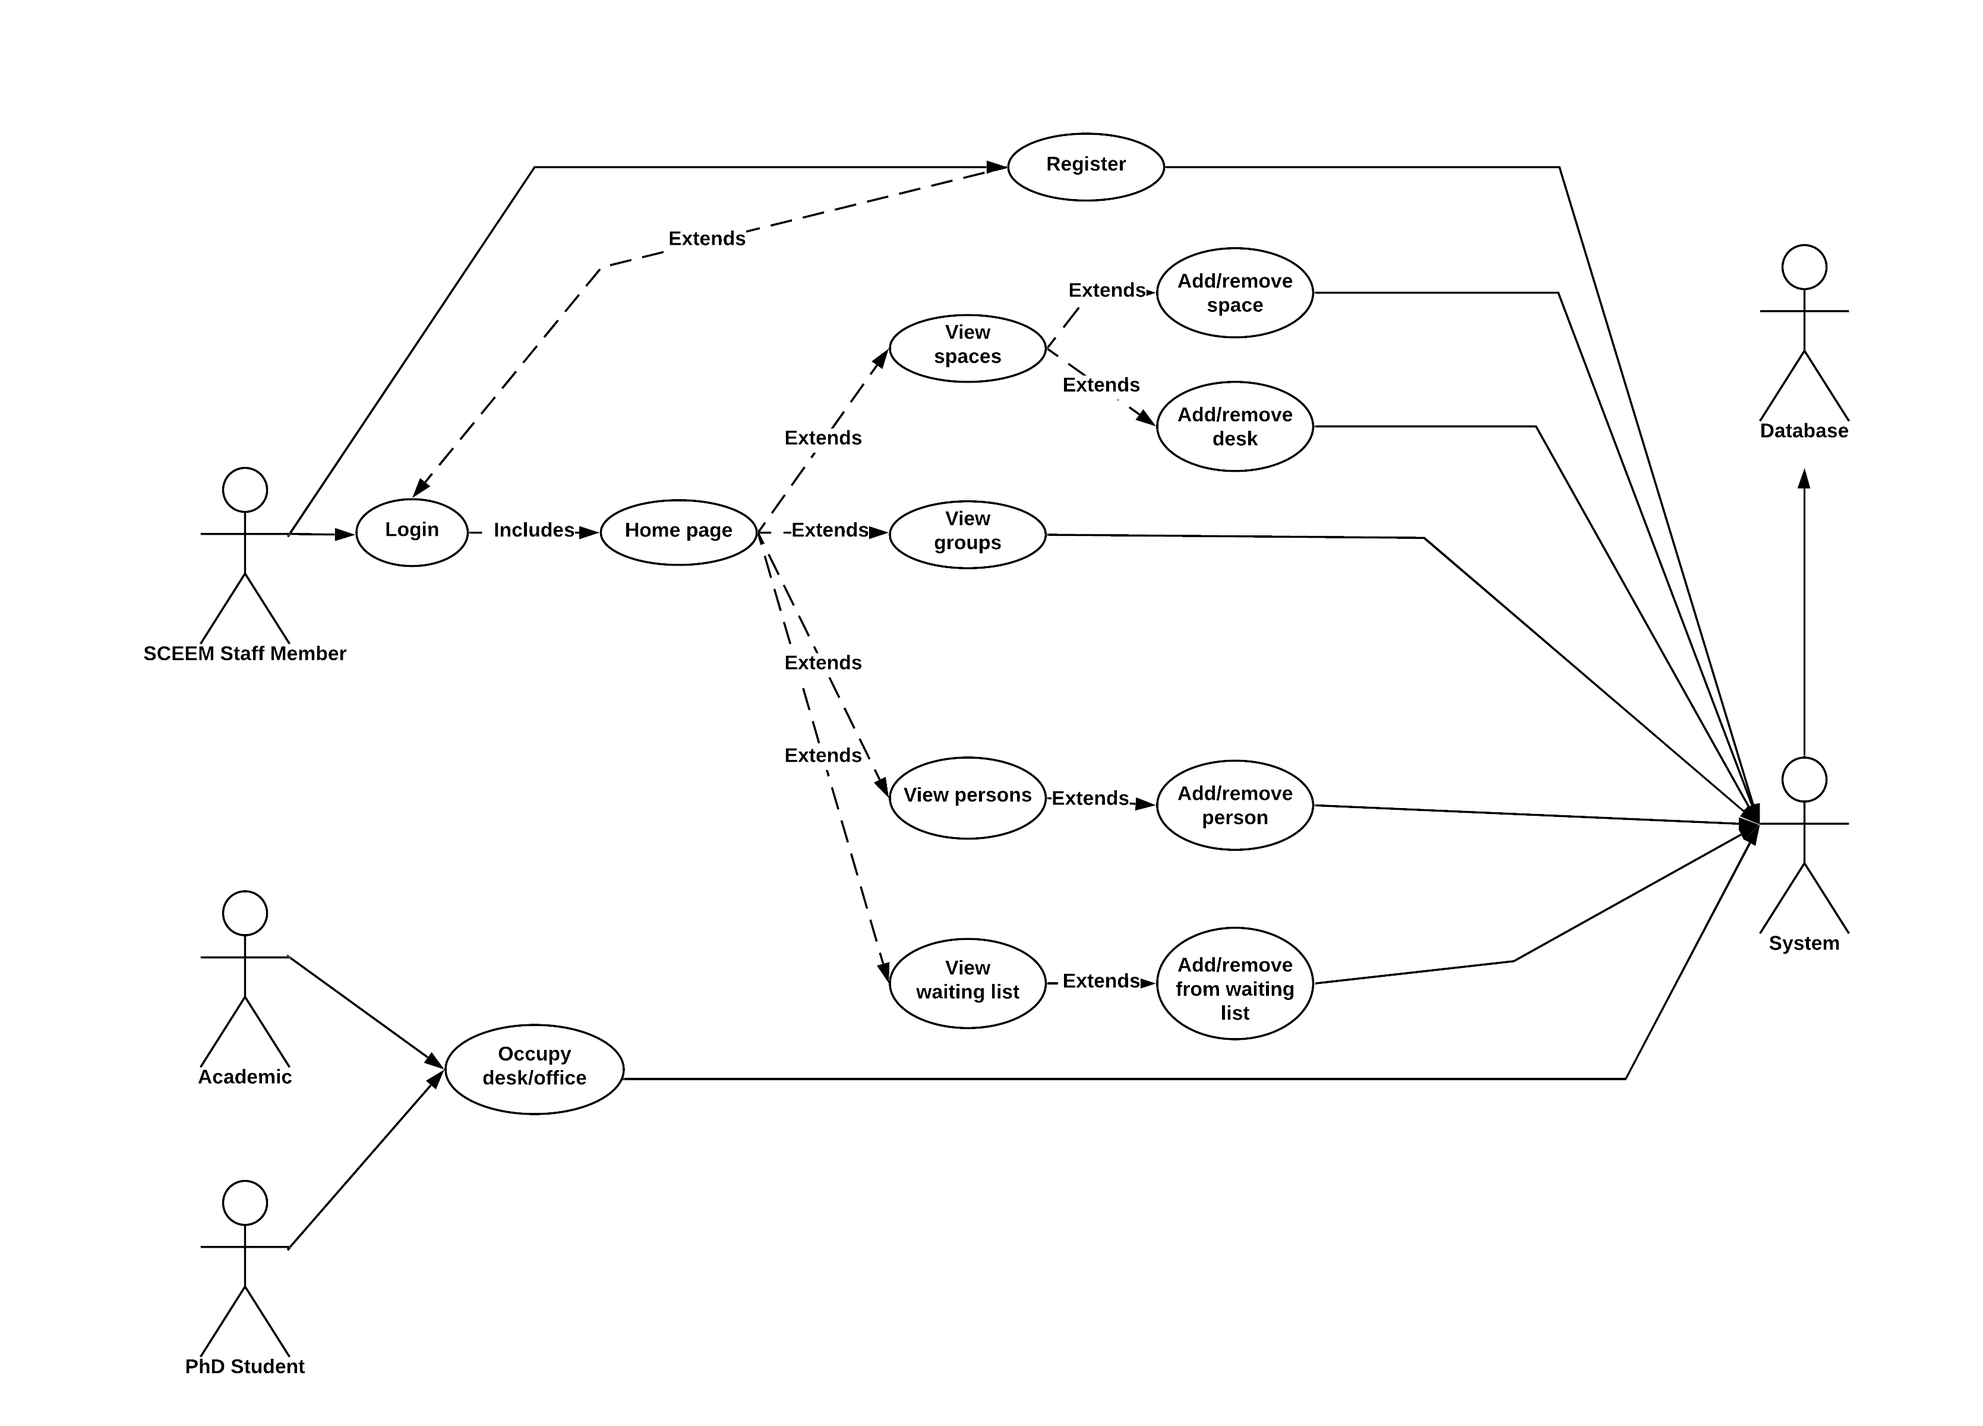
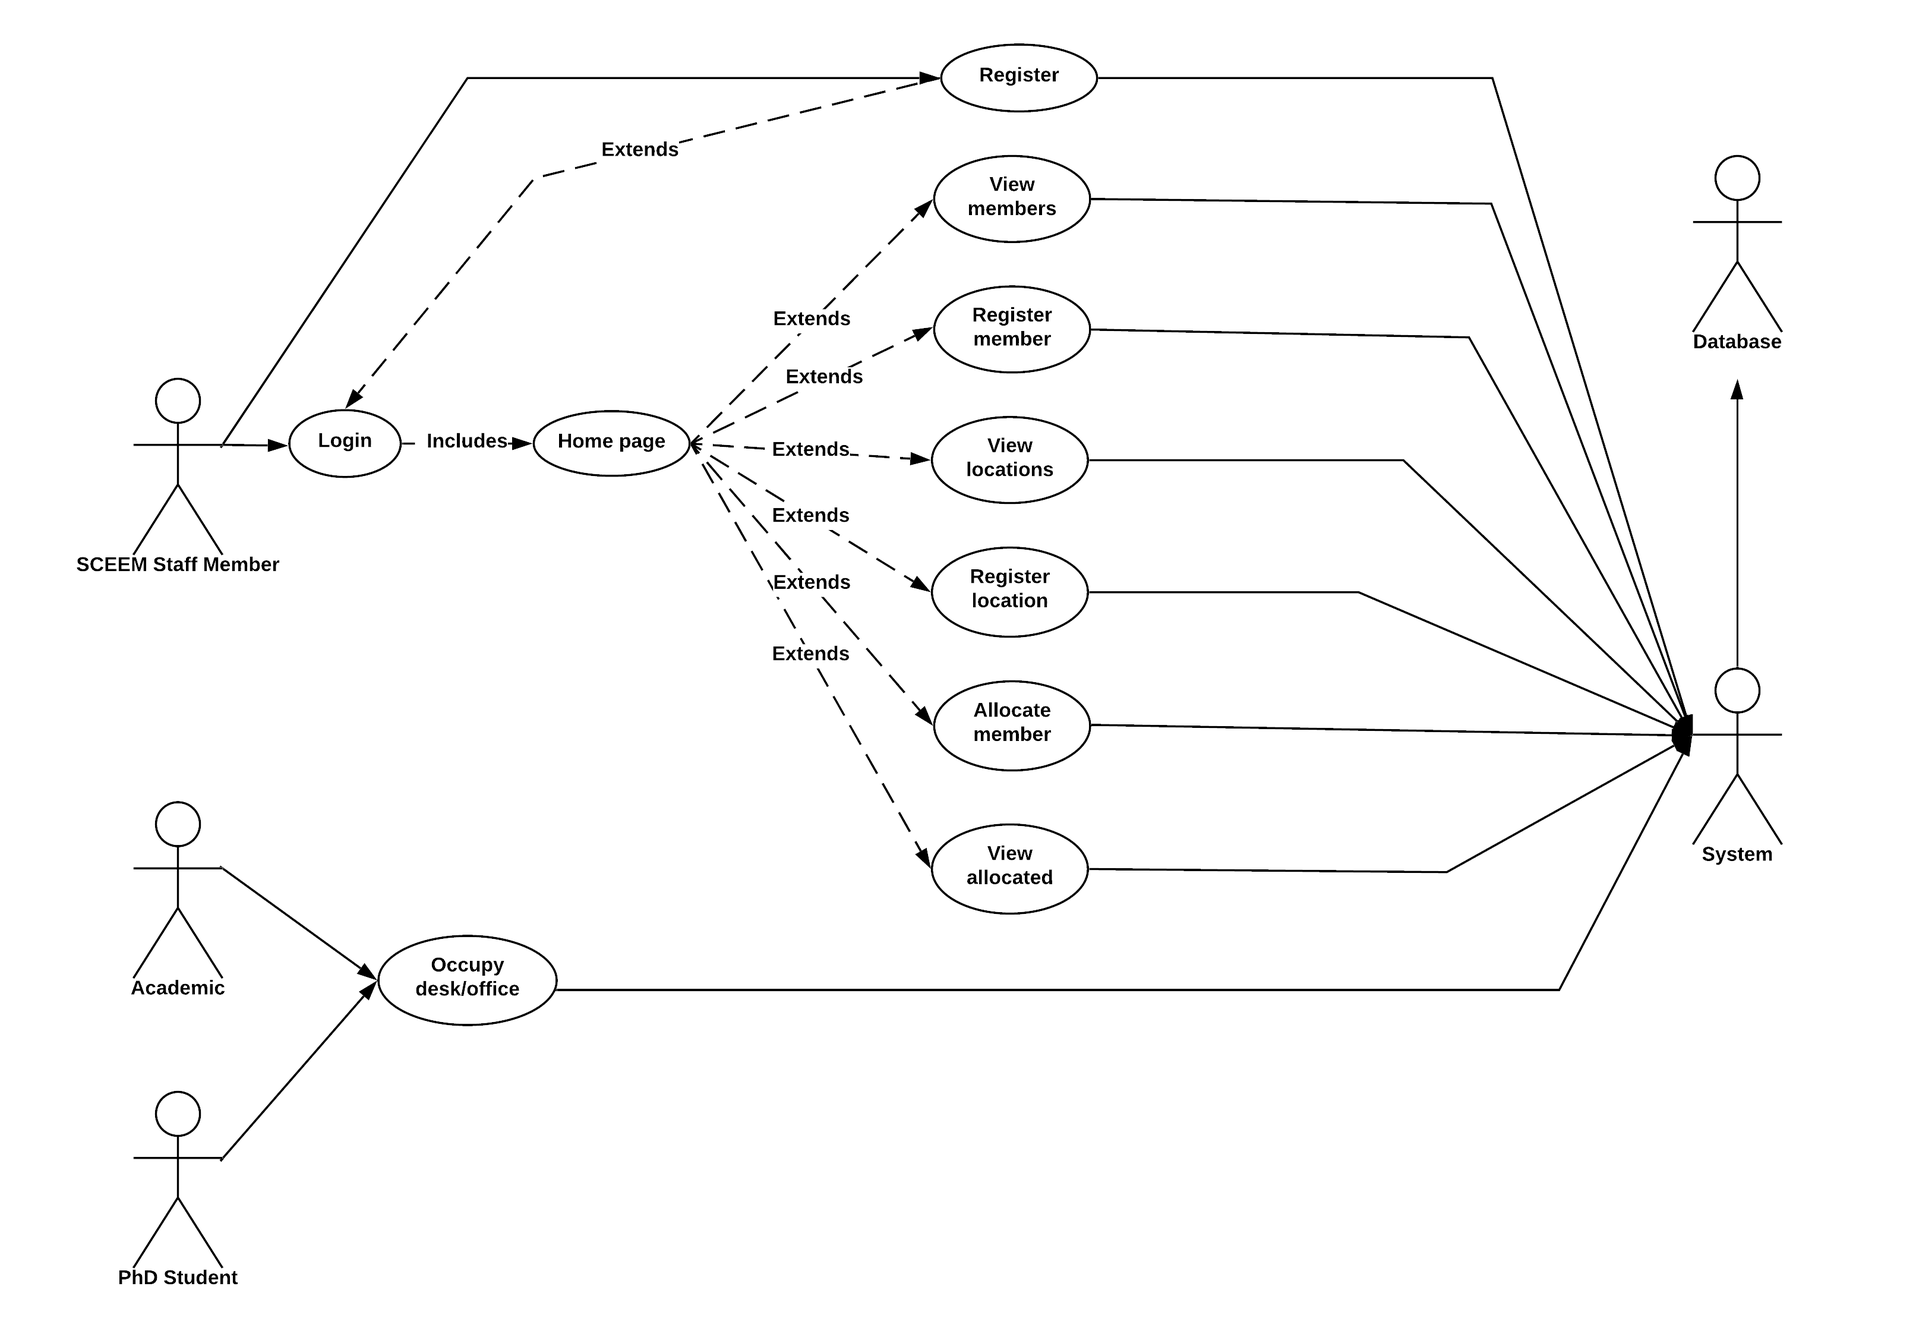
finished requirements

diff --git a/SCEEM Space - Requirements/main.tex b/SCEEM Space - Requirements/main.tex
@@ -39,6 +39,38 @@ pdfauthor = {Jason Park, Sungijn Kang, William Nafack, Calum West}
 \end{titlepage}
 
 \section{Requirements}
+\subsection{Client requirements}
+Through meetings with our client, we were able to compile a list of their specific requirements for the system we were building. The main requirement for the system was that they wanted a dynamic website application instead of a static Excel spreadsheet. These are some of the other requirements outlined by the client.
+
+\begin{itemize}
+    \item There needs to be three different kinds of members: Professor, Lecturer, PhD Student
+    \item It should be possible to sort for each different type of member.
+    \item It should be possible to designate a room type for each room in every location.
+    \item It should be possible to sort by room type.
+    \item Staff members need to be able to find out how many people can be allocated to a specific location.
+    \item There needs to be a login system.
+\end{itemize}
+
+From this list of requirements, we created a simple table comparing what our system would be able to do compared to what the previous spreadsheet was unable to accommodate.
+
+\begin{table}[ht]
+\centering
+\begin{tabular}{|p{0.5\textwidth}|p{0.5\textwidth}|}
+\hline
+Developed Website Application & Excel Spreadsheet  \\
+\hline
+Multiple staff can use the website at the same time & Multiple access not possible\\
+Automatic calculation of remaining spaces in a location & Remaining spaces in a location have to be counted by hand\\
+Automatic detection of duplicated member ID's or emails & Manual detection of duplicated member ID's or emails\\
+Easy reallocation of members' locations & Difficult reallocation of members' locations\\
+Automatically sorting members by priority & Manual checking of members' priorities\\
+Automatic sorting of allocations' expiry dates & Manually removing allocations once expiry dates have been reached\\
+\hline
+\end{tabular}
+\end{table}
+
+We were then able to identify both user and non-user stakeholders of our system and specific requirements relating to each stakeholder. This then allowed us to produce different flow steps for the system, as well as alternative and exceptional flow steps.
+
 \subsection{Identified user stakeholders for SCEEM Space:}
 \begin{itemize}
     \item \textit{Staff members} of ‘The School of Computer Science, Electrical and Electronic Engineering and Engineering Maths’. These staff members are admins that have access to the SCEEM Space application and can make changes, update information, add/remove people.
@@ -47,147 +79,198 @@ pdfauthor = {Jason Park, Sungijn Kang, William Nafack, Calum West}
 \subsection{User stakeholder stories:}
 These are some different 'user stories'. They are things that the user (staff members) want to be able to do when they are using the product:
 \begin{itemize}
-        \item Quick and easy way to add/remove spaces as the school moves/expands  into different buildings
-        \item Quick and easy way to add/remove desks as more spaces become available to the school in different buildings
-        \item Quick and easy way to add/remove persons as people become members of the university, or leave the university
-        \item Manage (add/remove) waiting list effectively as desk space is limited. Check if there is any desk space that is about to become available for reallocation.
-        \item Manage sensitive information for academics and PhD students (usernames)
-        \item Need to keep track of how many offices and desk are allocated to different research groups
-        \item Be able to keep track of the total number of offices/desks, see how many are free and how many are occupied/allocated to a persons
+        \item Quick and easy way to add/remove locations as the school moves/expands  into different buildings.
+        \item Quick and easy way to add/remove desks as more spaces become available to the school in different locations.
+        \item Quick and easy way to add/remove members as people become members of the university, or leave the university.
+        \item Manage sensitive information for academics and PhD students (names, emails, ID's, groups).
+        \item Need to keep track of how many members are assigned to each group, therefore allowing a count of locations assigned to each group.
+        \item Be able to keep track of the total number of locations, see how many are free and how many are allocated to a member.
     \end{itemize}
 
 \subsection{Identified stakeholders for SCEEM Space:}
 \begin{itemize}
-    \item \textit{Academics} don’t have direct access to the database and other persons information contained within the database. They will not be able to see where other people are located office/desk wise. They are stakeholders as they are affected by the information input into the system by the staff members.
+    \item \textit{Academics (Professors/Lecturers)} don’t have direct access to the database and other persons information contained within the database. They will not be able to see where other people are located office/desk wise. They are stakeholders as they are affected by the information input into the system by the staff members.
     \item \textit{PhD students} don’t have direct access to the database and other persons information contained within the database. They will not be able to see where other people are located office/desk wise. They are stakeholders as they are affected by the information input into the system by the staff members.
-    \item \textit{University students} are not directly affected by the system but are still stakeholders. This system is used to assign spaces desks/offices to academics and PhD students, and since university students often need to go to lecturers offices, the students are indirectly affected by where academics and PhD students are placed by the system. If an academic were to request to move office and this was accommodated by the system, the a university student would now have to go to a different place to speak to this academic.
+    \item \textit{University students} are not directly affected by the system but are still stakeholders. This system is used to assign spaces to academics and PhD students, and since university students often need to go to lecturers offices, the students are indirectly affected by where academics and PhD students are placed by the system. If an academic were to request to move office and this was accommodated by the system, then a university student would now have to go to a different place to speak to this academic.
 \end{itemize}
 
 \subsection{Flow steps for user stakeholder (staff member) stories:}
 \begin{itemize}
-  \item Add space:
+  \item Add location:
     \begin{itemize}
       \item Navigate to application login page
       \item Login to application using provided admin login details
-      \item Navigate to 'Spaces' tab
-      \item Click on 'Add Space' button
-      \item Enter details of space (name)
+      \item Navigate to 'Register Location' tab
+      \item Enter details of location (name, room type, no. of desks)
     \end{itemize}
-  \item Remove space:
+  \item Remove location:
     \begin{itemize}
       \item Navigate to application login page
       \item Login to application using provided admin login details
-      \item Navigate to ‘Spaces’ tab
-      \item Click on remove space button
-      \item Select space to be removed
-      \item Confirm space to be removed
+      \item Navigate to ‘Registered Locations’ tab
+      \item Find location to be removed
+      \item Click on 'Delete' next to location
     \end{itemize}
-  \item Add desk:
+  \item Add desk to location:
     \begin{itemize}
       \item Navigate to application login page
       \item Login to application using provided admin login details
-      \item Navigate to ‘Spaces’ tab
-      \item Click on space in which the desk will be added to
-      \item Click on ‘Add Desk’ button
-      \item Enter details of desk e.g Room, Desk status, Desk number
+      \item Navigate to ‘Registered Locations’ tab
+      \item Find location in which the desk will be added
+      \item Click on ‘Modify' button
+      \item Change details of the location to add a desk
     \end{itemize}
-  \item Remove desk:
+  \item Remove desk from location:
     \begin{itemize}
       \item Navigate to application login page
       \item Login to application using provided admin login details
-      \item Navigate to ‘Spaces’ tab
-      \item Click on ‘space’ in which the desk will be removed from
-      \item Click on ‘Remove Desk’ button
-      \item Select desk to remove from ‘space’
-      \item Confirm removal of desk
+      \item Navigate to ‘Registered Locations’ tab
+      \item Find location in which the desk will be removed from
+      \item Click on ‘Modify’ button
+      \item Change details of location to remove a desk
     \end{itemize}
-  \item Add persons:
+\newpage
+  \item Add member:
     \begin{itemize}
       \item Navigate to application login page
       \item Login to application using provided admin login details
-      \item Navigate to ‘Persons’ tab
-      \item Click on ‘Add Persons’ button
-      \item Enter details of ‘person’ e.g Name, Email, Group, Desk occupied etc.
+      \item Navigate to ‘Register Member’ tab
+      \item Enter details of ‘member’ e.g Name, Email, Group, Pathway etc.
     \end{itemize}
-  \item Remove persons:
+  \item Remove member:
     \begin{itemize}
       \item Navigate to application login page
       \item Login to application using provided admin login details
-      \item Navigate to ‘Persons’ tab
-      \item Search for ‘person’ using search bar
-      \item Click on ‘Remove Persons’ button
-      \item Confirm removal of ‘person’
+      \item Navigate to ‘Registered Members' tab
+      \item Find member to remove
+      \item Click on 'Delete' button next to member
     \end{itemize}
-  \item Manage waiting list:
+  \item Allocate member to location:
     \begin{itemize}
-      \item Navigate to application login page
-      \item Login to application using provided admin login details
-      \item Navigate to ‘Waiting List’ tab (Then it will show up faculties)
-      \item Click on 'faculty'
-      \item Find who is waiting for an empty desk/office
-      \item Add the person who is waiting
-      \item Remove the person who is waiting.
+        \item Navigate to application login page
+        \item Login to application using provided admin login details
+        \item Navigate to 'Allocate Member' tab
+        \item Select 'member' from drop-down list
+        \item Select 'location' from drop-down list
+        \item Enter other information (desk no., end date)
+    \end{itemize}
+  \item Remove member from location:
+    \begin{itemize}
+        \item Navigate to application login page
+        \item Login to application using provided admin login details
+        \item Navigate to 'Allocate Members/Locations' tab
+        \item Search for 'member' using search bar
+        \item Click 'Remove' button next to 'member'
     \end{itemize}
   \item Manage sensitive information:
     \begin{itemize}
       \item Navigate to application login page
       \item Login to application using provided admin login details
-      \item Navigate to ‘Persons’ tab
-      \item Search for ‘person’ using search bar
-      \item Click on ‘Personal Information’
+      \item Navigate to ‘Registered Members’ tab
+      \item Search for ‘member’ using search bar
+      \item Click on ‘Modify'
+      \item Change any details that need to be added/removed
     \end{itemize}
-  \item Access number of occupied desks/offices by group:
+  \item Access total number of free desks/offices:
     \begin{itemize}
       \item Navigate to application login page
       \item Login to application using provided admin login details
-      \item Navigate to ‘Groups’ tab
-      \item Click on ‘groupname’ to bring up information about group
-      \item Number of desks occupied by group included in information
-    \end{itemize}
-  \item Access total number of occupied desks/offices:
-    \begin{itemize}
-      \item Navigate to application login page
-      \item Login to application using provided admin login details
-      \item Navigate to ‘Spaces’ tab
-      \item Information about the total number of offices/desks displayed at the top of page
+      \item Navigate to ‘Registered Locations’ tab
+      \item Look at number of desks left in each location
     \end{itemize}
 \end{itemize}
 
 \subsection{Alternative flows:}
 \begin{itemize}
-  \item Manage waiting list:
-    \begin{itemize}
-      \item Navigate to application login page
-      \item Login to application using provided academic/PhD-student login details
-      \item Navigate to ‘Waiting List’ tab
-      \item Click on ‘facultyname’
-      \item Remove their name from waiting list
-    \end{itemize}
-  \item Access number of occupied desks/offices by group:
+  \item Manage sensitive information:
     \begin{itemize}
         \item Navigate to application login page
         \item Login to application using provided admin login details
-        \item Navigate to 'Spaces' tab
-        \item Filter by Spaces only occupied by specific group
-        \item Count number of desks/offices occupied from filtered results
+        \item Navigate to 'Registered Members' tab
+        \item Click on 'Delete' button for 'member' you would like to change
+        \item Navigate back to home page
+        \item Navigate to 'Register Member' tab
+        \item Enter details of 'member' different to original details
+    \end{itemize}
+  \item Access total number of free desks/offices:
+    \begin{itemize}
+        \item Navigate to application login page
+        \item Login to application using provided admin login details
+        \item Navigate to 'Allocated members/locations' tab
+        \item Count number of members allocated to location
+        \item Subtract total number of allocated members from total number of locations
     \end{itemize}
 \end{itemize}
 
 \subsection{Exceptional flows:}
 \textit{Exceptional} flow steps are shown in italics.
 \begin{itemize}
-  \item Add space:
+  \item Add location:
     \begin{itemize}
        \item Navigate to application login page
        \item Login to application using provided admin login details
        \item \textit{Navigate to incorrect tab}
-       \item Navigate to 'Spaces' tab
-       \item \textit{Click on 'Remove Space' button}
-       \item Click on 'Add Space' button
+       \item Navigate to 'Register Location' tab
+       \item \textit{Click on 'Submit' button}
        \item \textit{Enter incorrect details for space}
-       \item Remove details and enter new details for space
+       \item Enter correct details for space
+       \item Click on 'Submit' button
     \end{itemize}
 \end{itemize}
+
+\subsection{Functional and Non-Functional requirements:}
+From some of the goals of the system, we have taken the flow-steps and decomposed them into both functional and non-function requirements.
+
+\begin{itemize}
+    \item Functional Requirements:
+        \begin{itemize}
+            \item Member:
+                \begin{itemize}
+                    \item Sort by member number (ascending/descending)
+                    \item Sort by priority of member
+                    \item Sort by department of member
+                    \item Sort by pathway of member
+                \end{itemize}
+            \item Location:
+                \begin{itemize}
+                    \item Sort by location name
+                    \item Sort by room type
+                    \item Show unoccupied desks in a particular location
+                \end{itemize}
+            \item Allocated member/location:
+                \begin{itemize}
+                    \item Search member by member number
+                    \item Search location by location name
+                    \item Sort by expiry date
+                    \item Sort by allocation status (allocated, unallocated)
+                    \item Allocation history should be available
+                \end{itemize}
+            \item Account page:
+                \begin{itemize}
+                    \item Register account
+                    \item Delete account
+                \end{itemize}
+        \end{itemize}
+    \item Non-Functional Requirements:
+        \begin{itemize}
+            \item Deleting a member:
+                \begin{itemize}
+                    \item Instead of deleting a member, modify all details as 'None' or 'N/A'
+                    \item Use deleted member when registering new member if available
+                \end{itemize}
+            \item Deleting a location:
+                \begin{itemize}
+                    \item Instead of deleting a location, modify all details as 'None' or 'N/A'
+                    \item Use deleted location when registering new location if available
+                \end{itemize}
+            \item Re-allocation:
+                \begin{itemize}
+                    \item First remove, then allocate again
+                \end{itemize}
+        \end{itemize}
+\end{itemize}
+
+The non-functional requirements are necessary due to the relationships between the tables implemented in the system. When a member is allocated to a location, the software creates a new table that links the member table and the location table. When we remove a member from a location, the system tries to delete a row in the table which is not possible due to the parent child relationships in SQL tables. This means details are set to 'None' or NULL instead, allowing new allocations to happen.
 
 \subsection{High-level Use-case Diagram}
 This diagram depicts a high-level relationship between use cases, actors and the system.
